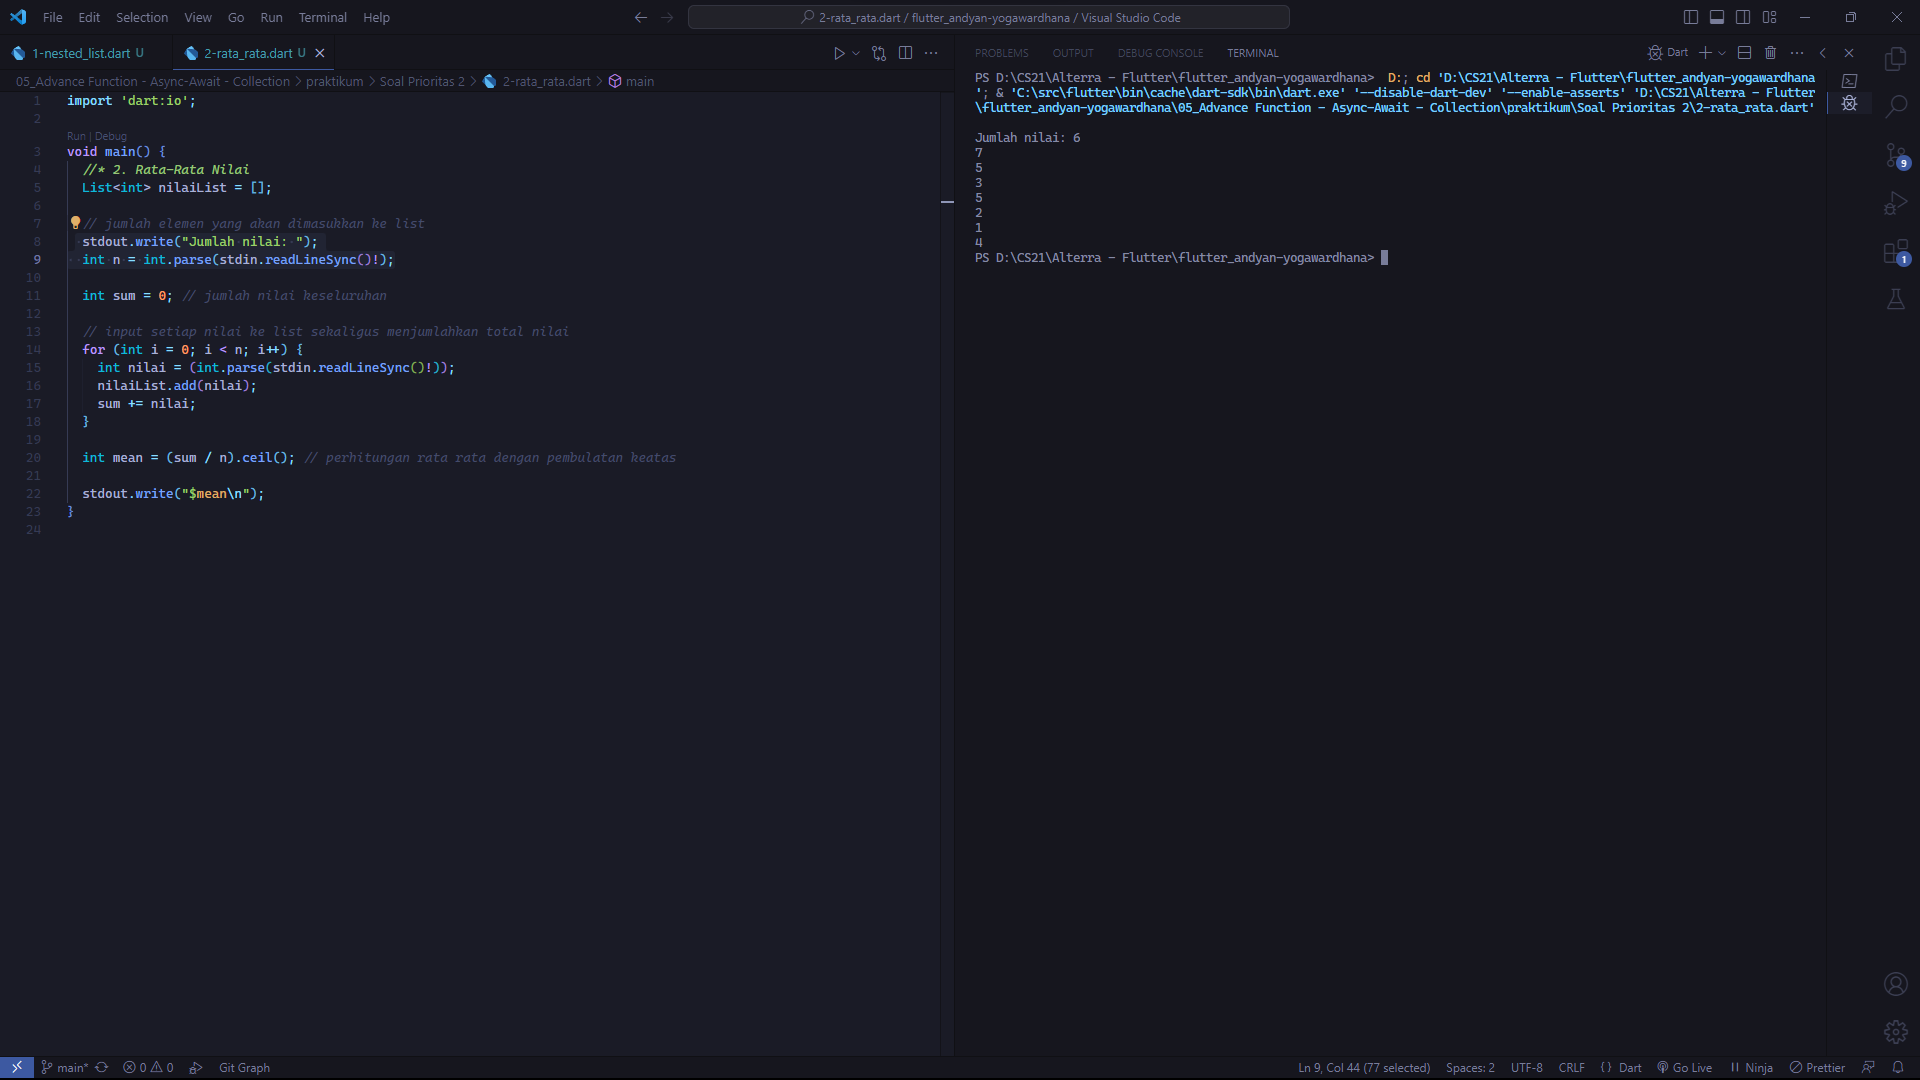
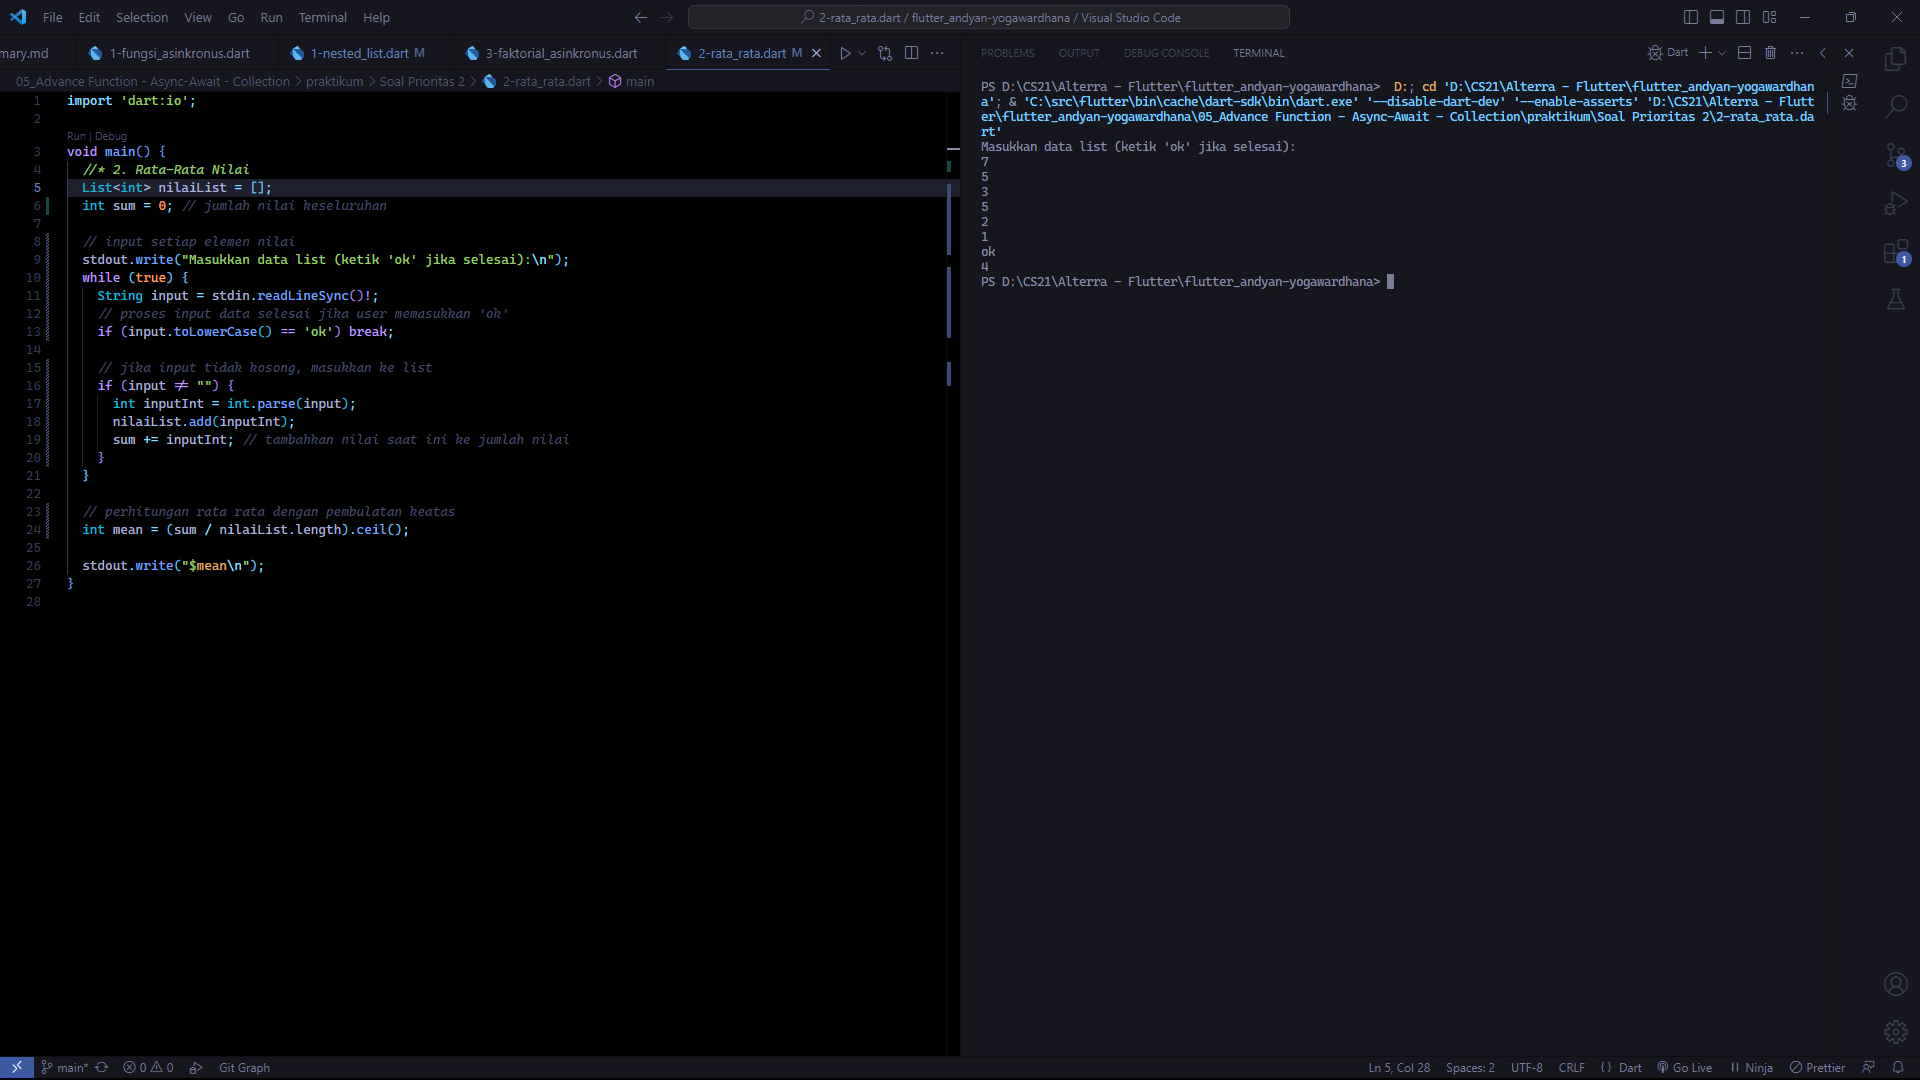
fix - revisi tugas 5 (fix comment, sp 2.2 input)

diff --git a/05_Advance Function - Async-Await - Collection/praktikum/Soal Prioritas 2/2-rata_rata.dart b/05_Advance Function - Async-Await - Collection/praktikum/Soal Prioritas 2/2-rata_rata.dart
@@ -1,23 +1,27 @@
 import 'dart:io';
 
 void main() {
-  //* 2. Rata-Rata Nilai
+  //* 2.2. Rata-Rata Nilai
   List<int> nilaiList = [];
-
-  // jumlah elemen yang akan dimasukkan ke list
-  stdout.write("Jumlah nilai: ");
-  int n = int.parse(stdin.readLineSync()!);
-
   int sum = 0; // jumlah nilai keseluruhan
 
-  // input setiap nilai ke list sekaligus menjumlahkan total nilai
-  for (int i = 0; i < n; i++) {
-    int nilai = (int.parse(stdin.readLineSync()!));
-    nilaiList.add(nilai);
-    sum += nilai;
+  // input setiap elemen nilai
+  stdout.write("Masukkan data list (ketik 'ok' jika selesai):\n");
+  while (true) {
+    String input = stdin.readLineSync()!;
+    // proses input data selesai jika user memasukkan 'ok'
+    if (input.toLowerCase() == 'ok') break;
+
+    // jika input tidak kosong, masukkan ke list
+    if (input != "") {
+      int inputInt = int.parse(input);
+      nilaiList.add(inputInt);
+      sum += inputInt; // tambahkan nilai saat ini ke jumlah nilai
+    }
   }
 
-  int mean = (sum / n).ceil(); // perhitungan rata rata dengan pembulatan keatas
+  // perhitungan rata rata dengan pembulatan keatas
+  int mean = (sum / nilaiList.length).ceil();
 
   stdout.write("$mean\n");
 }

diff --git a/05_Advance Function - Async-Await - Collection/praktikum/Soal Eksplorasi/2-frekuensi.dart b/05_Advance Function - Async-Await - Collection/praktikum/Soal Eksplorasi/2-frekuensi.dart
@@ -1,6 +1,7 @@
 import 'dart:io';
 
 void main() {
+  //* E.2. Frekuensi
   List<String> list = [];
 
   // input data setiap elemen ke list
@@ -17,13 +18,11 @@ void main() {
   // map untuk menyimpan nilai frekuensi setiap elemen
   Map<String, int> test = {};
 
-  // menghilangkan duplikasi pada list input untuk mendaftarkan frekuensi setiap elemen ke map
+  // menghilangkan duplikasi pada list input untuk mendaftarkan key setiap elemen ke map untuk menghitung frekuensi
   List<String> distinctList = list.toSet().toList();
 
   // inisiasi map yang menampung frekuensi setiap elemen
-  for (String el in distinctList) {
-    test[el] = 0;
-  }
+  for (String el in distinctList) test[el] = 0;
 
   // menghitung frekuensi setiap elemen
   for (String el in list) {
@@ -31,7 +30,7 @@ void main() {
       // jika ditemukan string yang sama antara input dengan key pada map, maka tambahkan nilai frekuensi dari data tersebut
       if (el == key) {
         test[el] = test[el]! + 1;
-        break; // lanjut ke elemen input berikutnya tanpa membandingkan key selanjutnya karena sudah ditemukan
+        break; // iterasi dilanjutkan ke elemen input berikutnya tanpa membandingkan key selanjutnya
       }
     }
   }

diff --git a/05_Advance Function - Async-Await - Collection/praktikum/Soal Prioritas 2/1-nested_list.dart b/05_Advance Function - Async-Await - Collection/praktikum/Soal Prioritas 2/1-nested_list.dart
@@ -1,10 +1,10 @@
 import 'dart:io';
 
 void main() async {
-  //* 1. Nested List
+  //* 2.1. Nested List
   List<List<int>> list = [];
 
-  // menambahkan elemen ke list dengan fungsi verifikasi
+  // menambahkan elemen berupa list ke list awal dengan fungsi verifikasi
   addToListOfList(list, [1, 2]);
   addToListOfList(list, [2, 4]);
   addToListOfList(list, [3, 6, 9]);
@@ -17,11 +17,10 @@ void main() async {
 
   for (List<int> el in list) {
     // input list ke map dengan key string "list-{key}" dan value list of integer dari elemen list awal
-    map['list-$key'] = el;
-    key++;
+    map['list-${key++}'] = el;
   }
 
-  stdout.write("Created map: $map\n");
+  stdout.write("\nCreated map: $map\n");
 }
 
 // 1. fungsi untuk memastikan setiap elemen yang dimasukkan berupa list dengan 2 elemen data

diff --git a/05_Advance Function - Async-Await - Collection/praktikum/Soal Prioritas 1/1-fungsi_asinkronus.dart b/05_Advance Function - Async-Await - Collection/praktikum/Soal Prioritas 1/1-fungsi_asinkronus.dart
@@ -1,7 +1,7 @@
 import 'dart:io';
 
 void main() async {
-  //* 1. Fungsi Asinkronus
+  //* 1.1. Fungsi Asinkronus
   List<double> list = []; // list data
 
   stdout.write("Masukkan data list (ketik 'ok' jika selesai):\n");

diff --git a/05_Advance Function - Async-Await - Collection/praktikum/Soal Prioritas 2/3-faktorial_asinkronus.dart b/05_Advance Function - Async-Await - Collection/praktikum/Soal Prioritas 2/3-faktorial_asinkronus.dart
@@ -1,7 +1,7 @@
 import 'dart:io';
 
 void main() async {
-  //* 3. Faktorial Asinkronus
+  //* 2.3. Faktorial Asinkronus
   // input angka yang akan dicari nilai faktorialnya
   int num = int.parse(stdin.readLineSync()!);
 

diff --git a/05_Advance Function - Async-Await - Collection/praktikum/Soal Eksplorasi/1-duplikasi.dart b/05_Advance Function - Async-Await - Collection/praktikum/Soal Eksplorasi/1-duplikasi.dart
@@ -1,6 +1,7 @@
 import 'dart:io';
 
 void main() {
+  //* E.1. Duplikasi
   List<String> list = [];
 
   // input data setiap elemen ke list
